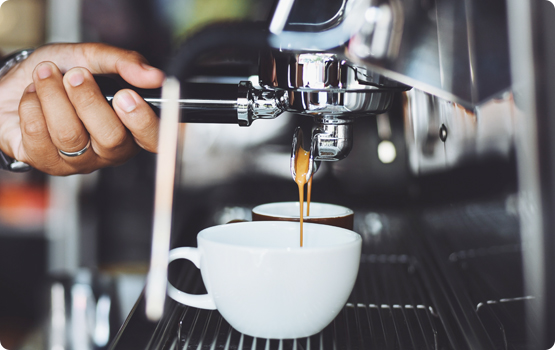
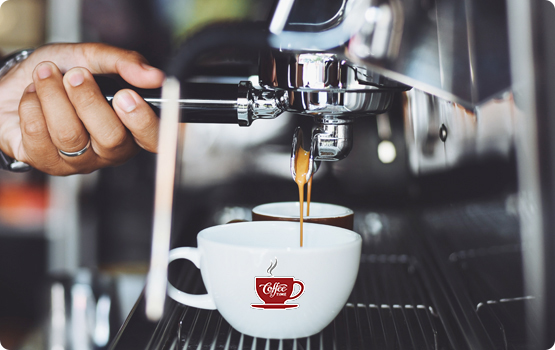
Modified video db image

Changed region(s): [[0.4288, 0.7429, 0.5514, 0.8857]]

diff --git a/index.html b/index.html
@@ -276,7 +276,7 @@
 						</div>
 						<div class="col-lg-8">
 							<a href="img/g3.jpg" class="img-pop-home">
-								<img class="img-fluid" src="img/g3.jpg" alt="">
+								<img class="img-fluid" src="img/b1.jpg" alt="">
 							</a>	
 							<div class="row">
 								<div class="col-lg-6">
